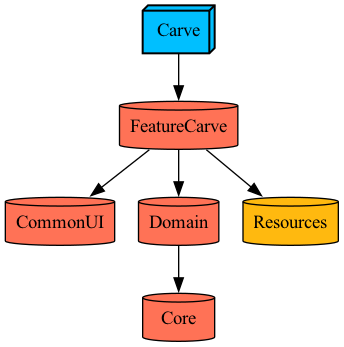
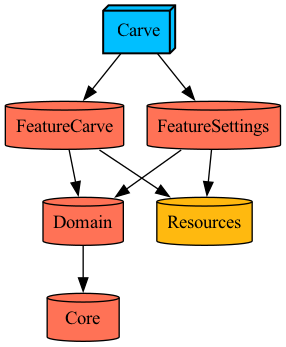
[chore] Shared-CommonUI 제거

diff --git a/Feature/FeatureCarve/Sources/Presentation/Drawing/SentenceWithDrawing/Reducer/SentencesWithDrawingReducer.swift b/Feature/FeatureCarve/Sources/Presentation/Drawing/SentenceWithDrawing/Reducer/SentencesWithDrawingReducer.swift
@@ -6,7 +6,7 @@
 //  Copyright © 2024 leetaek. All rights reserved.
 //
 
-import CommonUI
+import Core
 import Domain
 import SwiftUI
 
@@ -18,7 +18,7 @@ public struct SentencesWithDrawingReducer {
     public struct State: Equatable, Identifiable {
         public let id: String
         public let sentence: SentenceVO
-        public var sentenceState: BibleSentenceReducer.State
+        public var sentenceState: SentenceReducer.State
         public var canvasState: CanvasReducer.State
         public var underLineCount: Int = 1
         public var underlineOffset: [CGFloat] = [.zero]
@@ -36,7 +36,7 @@ public struct SentencesWithDrawingReducer {
     }
     
     
-    public enum Action: FeatureAction, CommonUI.ScopeAction, CommonUI.AsyncAction {
+    public enum Action: FeatureAction, Core.ScopeAction, Core.AsyncAction {
         case view(ViewAction)
         case inner(InnerAction)
         case async(AsyncAction)
@@ -59,7 +59,7 @@ public struct SentencesWithDrawingReducer {
     
     @CasePathable
     public enum ScopeAction {
-        case sentenceAction(BibleSentenceReducer.Action)
+        case sentenceAction(SentenceReducer.Action)
         case canvasAction(CanvasReducer.Action)
     }
     
@@ -67,7 +67,7 @@ public struct SentencesWithDrawingReducer {
     public var body: some Reducer<State, Action> {
         Scope(state: \.sentenceState,
               action: \.scope.sentenceAction) {
-            BibleSentenceReducer()
+            SentenceReducer()
         }
         Scope(state: \.canvasState,
               action: \.scope.canvasAction) {
@@ -94,7 +94,7 @@ public struct SentencesWithDrawingReducer {
     }
     
     
-    private func calcurateLineOffsets(state: BibleSentenceReducer.State,
+    private func calcurateLineOffsets(state: SentenceReducer.State,
                                       rect: CGRect) -> [CGFloat] {
         let frameHeight = rect.height
         let lineCount = Int(frameHeight / state.lineSpace)

diff --git a/Feature/FeatureCarve/Sources/Presentation/Carve/Sentence/View/SentenceView.swift b/Feature/FeatureCarve/Sources/Presentation/Carve/Sentence/View/SentenceView.swift
@@ -1,8 +1,8 @@
 //
-//  BibleSentenceView.swift
-//  CommonUI
+//  SentenceView.swift
+//  FeatureCarve
 //
-//  Created by 이택성 on 1/30/24.
+//  Created by 이택성 on 6/12/24.
 //  Copyright © 2024 leetaek. All rights reserved.
 //
 
@@ -11,10 +11,10 @@ import SwiftUI
 
 import ComposableArchitecture
 
-public struct BibleSentenceView: View {
-    private var store: StoreOf<BibleSentenceReducer>
+public struct SentenceView: View {
+    private var store: StoreOf<SentenceReducer>
 
-    public init(store: StoreOf<BibleSentenceReducer>) {
+    public init(store: StoreOf<SentenceReducer>) {
         self.store = store
     }
     
@@ -68,9 +68,9 @@ public struct BibleSentenceView: View {
 
 #if DEBUG
 #Preview {
-    let store = Store(initialState: BibleSentenceReducer.State.initialState) {
-        BibleSentenceReducer()
+    let store = Store(initialState: SentenceReducer.State.initialState) {
+        SentenceReducer()
     }
-    return BibleSentenceView(store: store)
+    return SentenceView(store: store)
 }
 #endif

diff --git a/Feature/FeatureCarve/Sources/Presentation/Carve/Sentence/Reducer/SentenceReducer.swift b/Feature/FeatureCarve/Sources/Presentation/Carve/Sentence/Reducer/SentenceReducer.swift
@@ -1,8 +1,8 @@
 //
-//  BibleSentenceReducer.swift
-//  CommonUI
+//  SentenceReducer.swift
+//  FeatureCarve
 //
-//  Created by 이택성 on 1/30/24.
+//  Created by 이택성 on 6/12/24.
 //  Copyright © 2024 leetaek. All rights reserved.
 //
 
@@ -12,7 +12,7 @@ import SwiftUI
 import ComposableArchitecture
 
 @Reducer
-public struct BibleSentenceReducer {
+public struct SentenceReducer {
     public init() { }
     @ObservableState
     public struct State: Equatable, Identifiable {
@@ -79,7 +79,7 @@ public struct BibleSentenceReducer {
         case setFont(FontCase)
     }
     
-    public enum InnerAction { 
+    public enum InnerAction {
         case present
         case redrawUnderline(CGRect)
     }

diff --git a/Plugins/Carve/ProjectDescriptionHelpers/Package.swift b/Plugins/Carve/ProjectDescriptionHelpers/Package.swift
@@ -46,7 +46,6 @@ public extension TargetDependency {
     static let FeatureSettings: Self = .project(target: "FeatureSettings", path: .relativeToRoot("Feature/FeatureSettings"))
     static let Domain: Self = .project(target: "Domain", path: .relativeToRoot("Domain/Domain"))
     static let Core: Self = .project(target: "Core", path: .relativeToRoot("Core/Core"))
-    static let CommonUI: Self = .project(target: "CommonUI", path: .relativeToRoot("Shared/CommonUI"))
     static let Resources: Self = .project(target: "Resources", path: .relativeToRoot("Shared/Resources"))
 
     

diff --git a/Core/Core/Sources/ReducerAction/FeatureAction.swift b/Core/Core/Sources/ReducerAction/FeatureAction.swift
@@ -1,15 +1,14 @@
 //
 //  FeatureAction.swift
-//  CommonUI
+//  Core
 //
-//  Created by 이택성 on 2/21/24.
+//  Created by 이택성 on 6/12/24.
 //  Copyright © 2024 leetaek. All rights reserved.
 //
 
 import Foundation
-import ComposableArchitecture
 
-public protocol FeatureAction  {
+public protocol FeatureAction {
     associatedtype ViewAction
     associatedtype InnerAction
 
@@ -40,7 +39,3 @@ public protocol DelegateAction {
     // 부모 reducer에서 사용되는 action
     static func delegate(_: DelegateAction) -> Self
 }
-
-
-
-

diff --git a/Feature/FeatureCarve/Sources/Presentation/Drawing/SentenceWithDrawing/View/SentencesWithDrawingView.swift b/Feature/FeatureCarve/Sources/Presentation/Drawing/SentenceWithDrawing/View/SentencesWithDrawingView.swift
@@ -6,7 +6,6 @@
 //  Copyright © 2024 leetaek. All rights reserved.
 //
 
-import CommonUI
 import SwiftUI
 
 import ComposableArchitecture
@@ -20,7 +19,7 @@ public struct SentencesWithDrawingView: View {
     
     public var body: some View {
         HStack {
-            BibleSentenceView(
+            SentenceView(
                 store: self.store.scope(state: \.sentenceState,
                                         action: \.scope.sentenceAction)
             )

diff --git a/Feature/FeatureCarve/Sources/Presentation/Carve/Main/Reducer/CarveReducer.swift b/Feature/FeatureCarve/Sources/Presentation/Carve/Main/Reducer/CarveReducer.swift
@@ -7,7 +7,6 @@
 //
 
 import Core
-import CommonUI
 import Domain
 import Resources
 import SwiftUI
@@ -35,7 +34,7 @@ public struct CarveReducer {
     
     @Dependency(\.drawingData) var drawingContext
     
-    public enum Action: FeatureAction, CommonUI.ScopeAction, BindableAction {
+    public enum Action: FeatureAction, Core.ScopeAction, BindableAction {
         case binding(BindingAction<State>)
         case view(ViewAction)
         case inner(InnerAction)

diff --git a/Feature/FeatureCarve/Sources/Presentation/Carve/CarveDetail/Reducer/CarveDetailReducer.swift b/Feature/FeatureCarve/Sources/Presentation/Carve/CarveDetail/Reducer/CarveDetailReducer.swift
@@ -7,7 +7,6 @@
 //
 
 import Core
-import CommonUI
 import Domain
 import Foundation
 import Resources
@@ -28,7 +27,7 @@ public struct CarveDetailReducer {
     @Dependency(\.drawingData) var drawingContext
 
     
-    public enum Action: FeatureAction, CommonUI.ScopeAction {
+    public enum Action: FeatureAction, Core.ScopeAction {
         case view(ViewAction)
         case inner(InnerAction)
         case scope(ScopeAction)

diff --git a/Feature/FeatureCarve/Project.swift b/Feature/FeatureCarve/Project.swift
@@ -12,7 +12,6 @@ import ProjectDescriptionHelpers
 let projectName = "FeatureCarve"
 
 let dependencies: [TargetDependency] = [
-    .CommonUI,
     .Domain,
     .TCAArchitecture,
     .Kingfisher,

diff --git a/Feature/FeatureCarve/Sources/Presentation/Header/MainHeader/Reducer/HeaderReducer.swift b/Feature/FeatureCarve/Sources/Presentation/Header/MainHeader/Reducer/HeaderReducer.swift
@@ -7,7 +7,6 @@
 //
 
 import Core
-import CommonUI
 import Domain
 import Foundation
 

diff --git a/Feature/FeatureCarve/Sources/Presentation/Carve/Main/View/CarveView.swift b/Feature/FeatureCarve/Sources/Presentation/Carve/Main/View/CarveView.swift
@@ -6,7 +6,6 @@
 //
 
 import Core
-import CommonUI
 import Domain
 import SwiftUI
 
